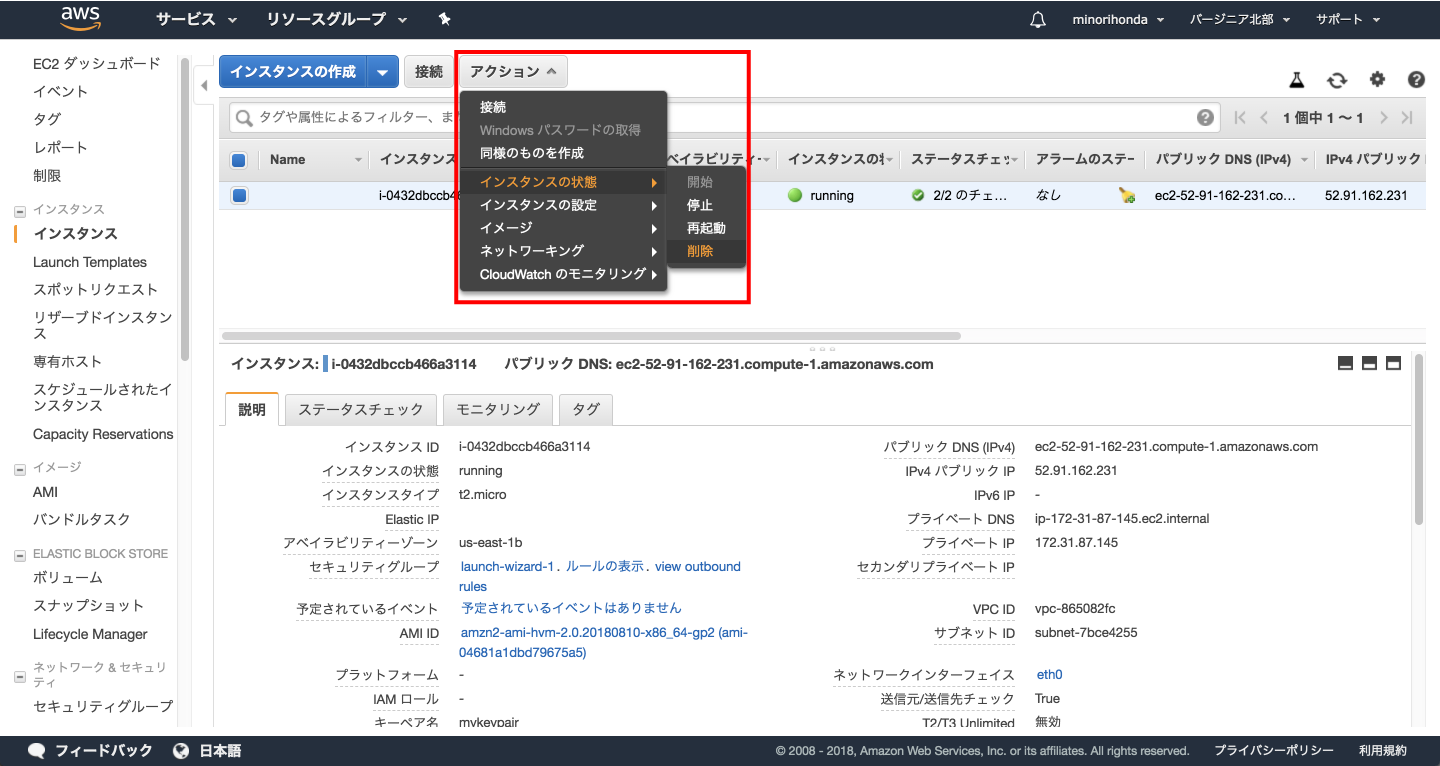
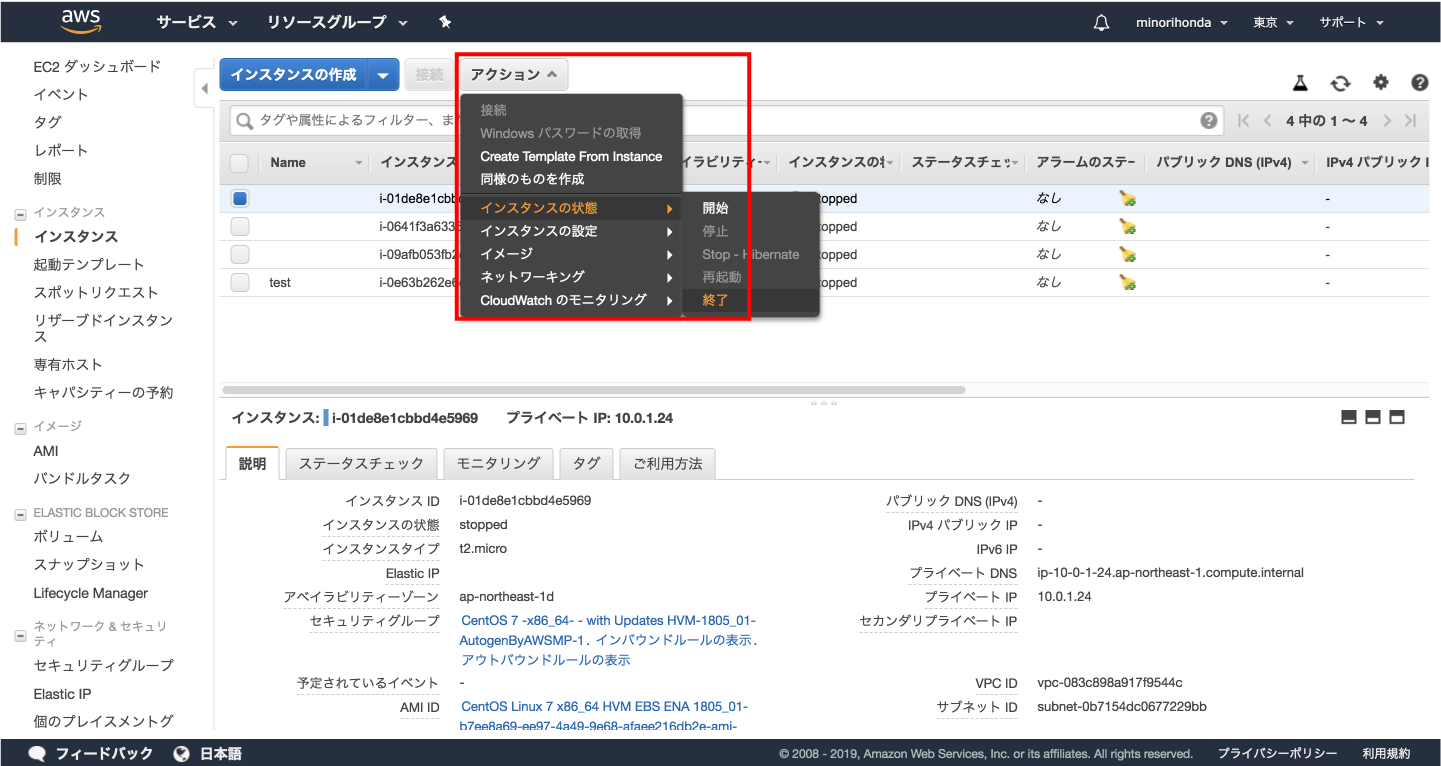
画像張り替え

diff --git a/10/10.md b/10/10.md
@@ -253,7 +253,7 @@ Macの方はターミナル、Windowsの方はTeraTermの画面にて、```exit`
 
 「1 個の実行中のインスタンス」をクリックしてください。
 
-「アクション」→「インスタンスの状態」→「削除」を選択して下さい。
+「アクション」→「インスタンスの状態」→「終了」を選択して下さい。インスタンスは削除せずに停止させる時は「停止」で、インスタンス自体を削除する時は「終了」を選択します。
 
 ![図21. インスタンスの削除](10-20.png)
 
